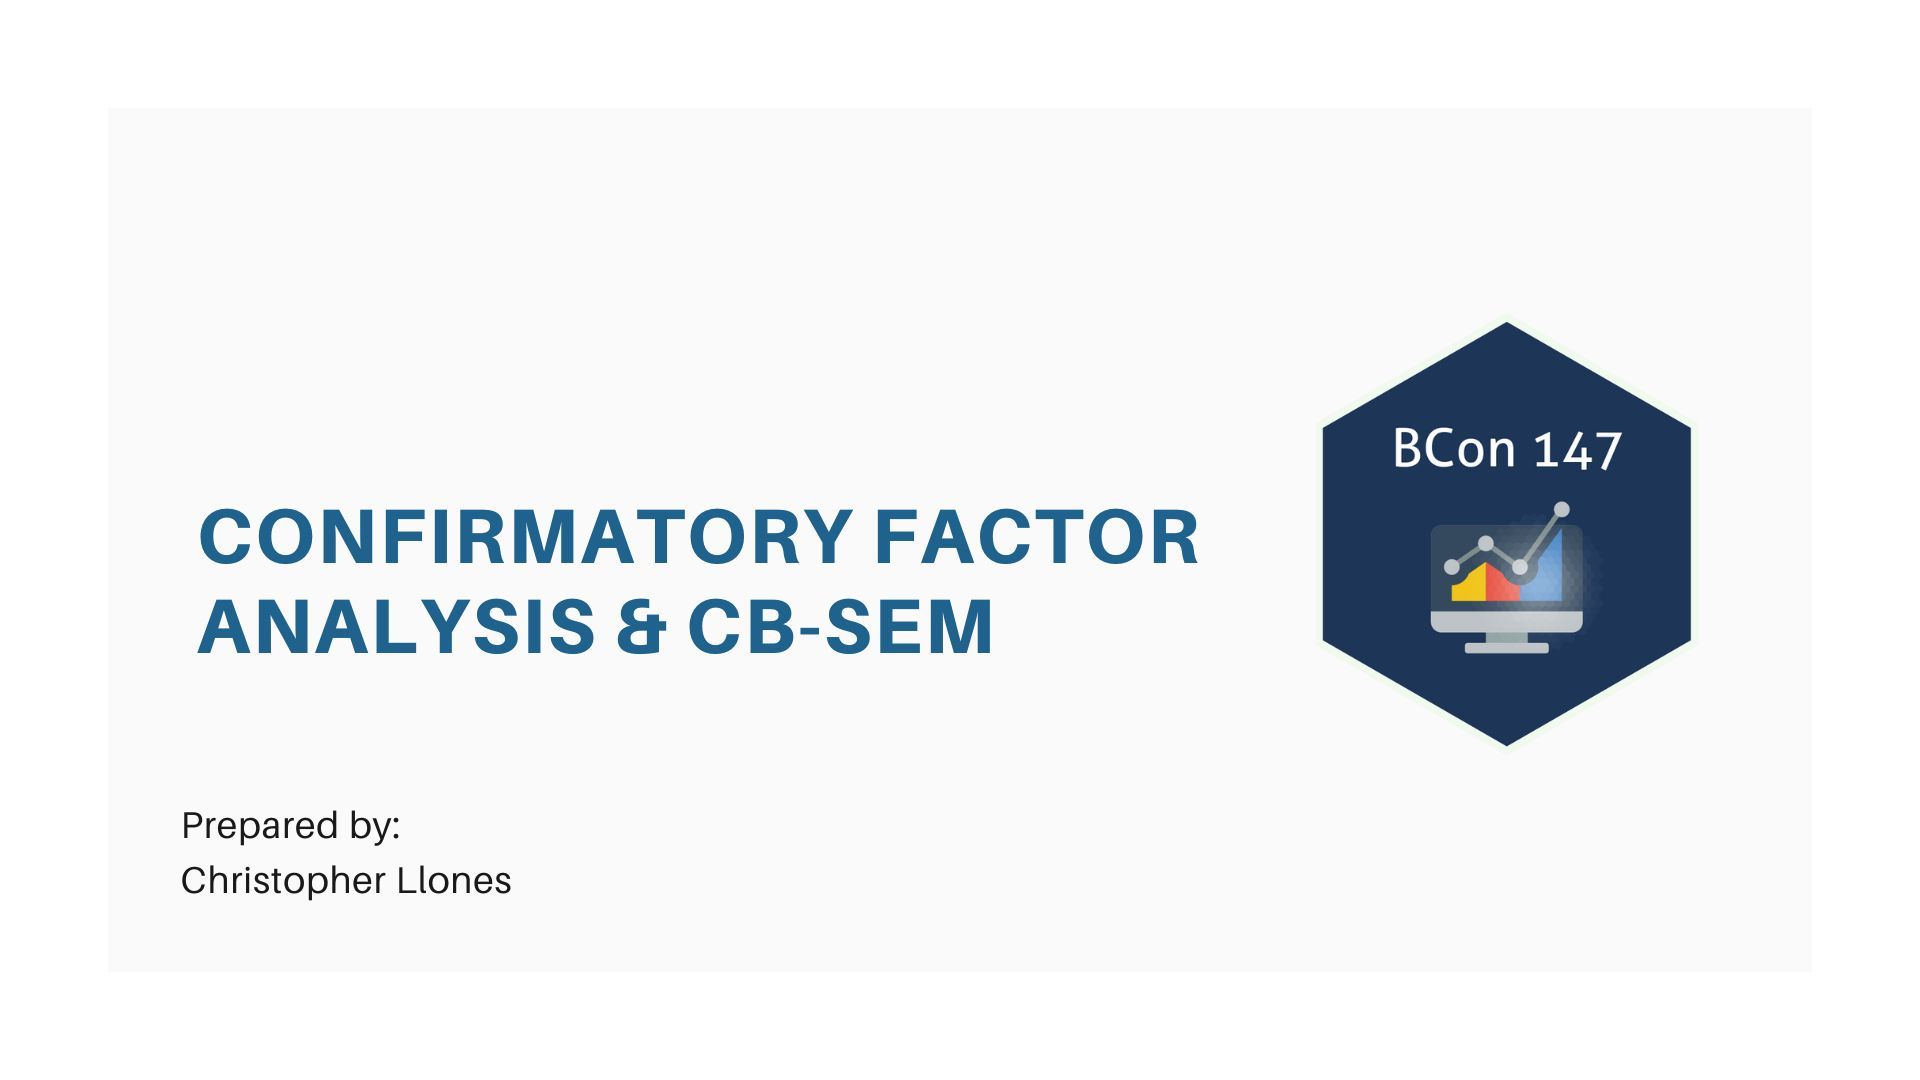
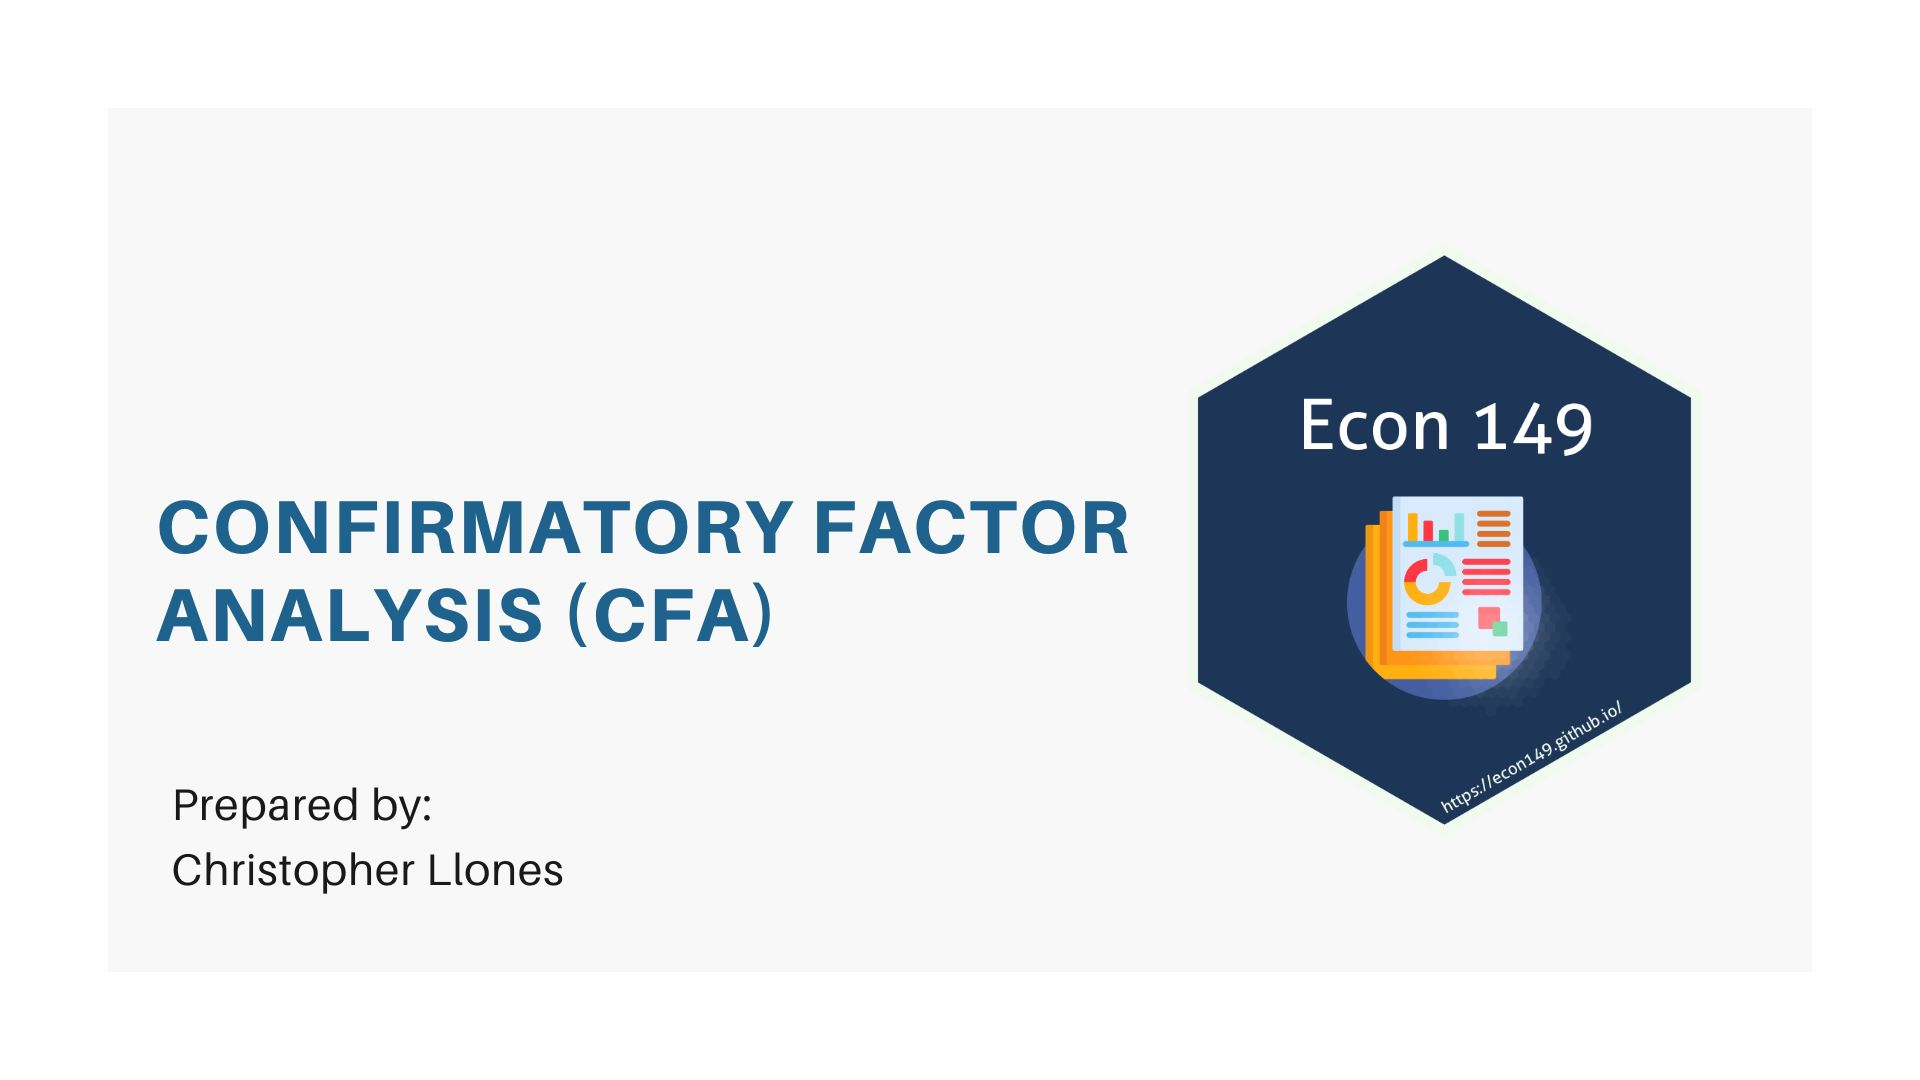
background change

Changed region(s): [[0.0625, 0.2444, 0.9062, 0.7639], [0.0938, 0.7333, 0.3125, 0.825]]

diff --git a/module-5-efa/index.html b/module-5-efa/index.html
@@ -540,8 +540,8 @@
 </div><div class="column" style="width:60%;">
 <div class="cell">
 <div class="cell-output-display">
-<div class="datatables html-widget html-fill-item" id="htmlwidget-3b3ef5f225dbb7758c3a" style="width:100%;height:auto;"></div>
-<script type="application/json" data-for="htmlwidget-3b3ef5f225dbb7758c3a">{"x":{"filter":"none","vertical":false,"data":[["1","2","3","4","5","6","7","8","9","10","11","12","13","14","15","16","17","18","19","20","21","22","23","24","25","26","27","28","29","30","31","32","33","34","35","36","37","38","39","40","41","42","43","44","45","46","47","48","49","50","51","52","53","54","55","56","57","58","59","60","61","62","63","64","65","66","67","68","69","70","71","72","73","74","75","76","77","78","79","80","81","82","83","84","85","86","87","88","89","90","91","92","93","94","95","96","97","98","99","100"],[8.5,8.199999999999999,9.199999999999999,6.4,9,6.5,6.9,6.2,5.8,6.4,8.699999999999999,6.1,9.5,9.199999999999999,6.3,8.699999999999999,5.7,5.9,5.6,9.1,5.2,9.6,8.6,9.300000000000001,6,6.4,8.5,7,8.5,7.6,6.9,8.1,6.7,8,6.7,8.699999999999999,9,9.6,8.199999999999999,6.1,8.300000000000001,9.4,9.300000000000001,5.1,8,5.9,10,5.7,9.9,7.9,6.7,8.199999999999999,9.4,6.9,8,9.300000000000001,7.4,7.6,10,9.9,8.699999999999999,8.4,8.800000000000001,7.7,6.6,5.7,5.7,5.5,7.5,6.4,9.1,6.7,6.5,9.9,8.5,9.9,7.6,9.4,9.300000000000001,7.1,9.9,8.699999999999999,8.6,6.4,7.7,7.5,5,7.7,9.1,5.5,9.1,7.1,9.199999999999999,9.300000000000001,9.300000000000001,8.6,7.4,8.699999999999999,7.8,7.9],[3.9,2.7,3.4,3.3,3.4,2.8,3.7,3.3,3.6,4.5,3.2,4.9,5.6,3.9,4.5,3.2,4,4.1,3.4,4.5,3.8,5.7,3.6,2.4,4.1,3.6,3,3.3,3,3.6,3.4,2.5,3.7,3.3,4,3.2,3.4,4.1,3.6,4.9,3.4,3.8,5.1,5.1,2.5,4.1,4.3,3.8,3.7,3.9,3.6,2.7,2.5,3.4,3.3,3.8,5.1,3.6,4.3,2.8,3.2,3.8,3.9,2.2,3.6,3.8,4,3.7,3.5,3.6,4.5,3.2,4.3,3.7,3.9,3,3.6,3.8,3.5,3.4,3,3.2,2.9,3.2,2.6,3.5,3.6,2.6,3.6,5.5,3.7,4.2,3.9,3.5,3.8,4.8,3.4,3.2,4.9,3],[2.5,5.1,5.6,7,5.2,3.1,5,3.9,5.1,5.1,4.6,6.3,4.6,5.7,4.7,4,6.7,5.5,5.1,3.6,7.1,6.8,7.4,2.6,5.3,6.6,7.2,5.4,5.7,3,8.5,7.2,6.5,6.1,5.2,6.1,5.9,6.2,3.9,3,3.3,4.7,4.6,6.6,4.7,5.7,7.1,6.8,3.7,4.3,5.9,3.7,4.8,5.7,3.8,7.3,4.8,5.2,5.3,7.2,8.4,6.7,3.8,6.3,5.8,3.5,7.9,4.7,3.8,2.7,6.1,3,2.7,7.5,5.3,6.8,7.6,7,6.3,4.9,7.4,6.4,5.8,6.7,6.7,4.1,1.3,8,5.5,7.7,7,4.1,4.6,5.4,4,5.6,2.6,3.3,5.8,4.4],[5.9,7.2,5.6,3.7,4.6,4.1,2.6,4.8,6.7,6.1,4.8,3.9,6.9,5.5,6.9,6.8,6,7.2,6.4,6.4,5.2,5.9,5.1,7.2,4.7,6.1,5.8,5.5,6,4,4.3,4.5,5.3,5.7,3.9,4.3,4.6,7.3,6.2,4.8,5.5,5.4,6.8,6.9,7.1,5.9,6.3,7.5,6.1,5.8,4.2,7.4,6.1,4.4,5.8,5.7,7.7,5.8,3.7,6.9,6.1,5,5.1,4.5,4.1,6.7,6.4,5.4,3.5,5.3,5.9,3.7,6.6,4.7,5.5,5,4.6,6.2,7.6,4.1,4.8,4.9,3.9,3.6,6.6,4.5,3,6.7,5.4,7,4.1,2.6,5.3,7.8,4.6,5.3,5,3.2,5.3,5.1],[4.8,3.4,5.4,4.7,2.2,4,2.1,4.6,3.7,4.7,2.7,4.4,5,2.4,4.5,3.2,3.3,3.5,3.7,5.3,3.9,5.4,3.5,2.2,3.5,4,4.1,2.6,2.3,5.1,4.5,2.3,5.3,5.5,3,3.5,3.9,2.9,5.8,5.1,3.1,3.8,5.8,4.4,3.6,5.8,2.9,5.7,4.2,4.4,3.4,2.7,3.2,3.3,3.2,3.7,4.5,5.6,4.2,2.6,2.8,4.5,4.3,2.4,4.9,5.4,2.7,4.3,2.9,3.9,6.3,4.8,6.5,5.6,5,5.4,4.7,4.7,5.5,4,4,2.4,2.9,2.2,1.9,3.5,3.5,3.5,4.2,5.6,4.4,2.1,4.2,4.6,4.7,2.3,4.1,3.1,5.2,5.9],[4.9,7.9,7.4,4.7,6,4.3,2.3,3.6,5.9,5.7,6.8,3.9,6.9,8.4,6.8,7.8,5.5,6.4,5.7,5.3,4.3,8.300000000000001,7.3,7.2,5.3,3.9,7.6,4.8,7.6,4.2,6.4,5.1,5.1,4.6,5.4,6.1,6,7.7,4.9,3.9,4.6,6.5,6.6,5.4,7.7,6.4,5.4,5.7,7,6.9,4.7,7.9,7.3,6.4,4.6,6.4,7.2,6.6,5.4,5.8,7.8,4.7,4.7,4.7,4.7,5.7,5.5,5.3,4.1,3.9,5.3,6.3,6.3,7,4.9,5.9,4.6,6.5,7.5,5,5.9,6.8,5.6,2.9,7.2,4.1,4.2,7.2,6.2,5.7,6.3,3.3,8.4,7.5,6.4,6,4.4,6.1,5.3,4.2],[6,3.1,5.8,4.5,4.5,3.7,5.4,5.1,5.8,5.7,4.6,6.4,6.6,4.8,5.9,3.8,5.1,5.5,5.6,7.1,5,7.8,4.7,4.5,5.3,5.3,3.7,4.2,3.7,4.6,4.7,3.8,4.9,4.7,6.8,2.9,4.5,5.5,5,6.4,5.2,4.9,6.3,7.8,3,5.5,4.5,6,6.7,5.8,4.8,3.1,4.6,4.7,4.7,5.5,6.9,5.4,4.5,3.5,3.8,5.9,4.8,3.4,4.8,6,5.1,4.9,4.5,5.3,7.1,4.5,6,6.7,6,4.8,5,4.9,5.9,5.9,4.8,4.6,4,5,4.3,4.5,4.9,4.3,4.6,8.199999999999999,5.4,4.5,4.8,5.9,5.5,5.7,4.8,2.9,7.1,4.8],[6.8,5.3,4.5,8.800000000000001,6.8,8.5,8.9,6.9,9.300000000000001,8.4,6.8,8.199999999999999,7.6,7.1,8.800000000000001,4.9,6.2,8.4,9.1,8.4,8.4,4.5,3.7,6.2,8,7.1,4.8,9,4.8,7.7,5.2,6.6,9.199999999999999,8.699999999999999,8.4,5.6,6.8,7.7,9,8.199999999999999,9.1,8.5,7.4,5.9,5.2,8.4,3.8,8.199999999999999,6.8,4.7,7.2,5.3,6.3,5.2,8.699999999999999,7.4,9.6,4.4,3.8,5.4,4.9,6.7,5.8,6.2,7.2,8.199999999999999,6.2,6,7.6,7.1,8.4,5,8.699999999999999,6.8,6.8,4.9,7.4,8.5,4.6,7.8,4.9,6.8,6.3,8.4,5.9,7.6,8.199999999999999,5.9,8.300000000000001,6.3,7.3,9.9,7.1,4.6,7.4,6.7,7.2,5.6,7.9,9.699999999999999],[4.7,5.5,6.2,7,6.1,5.1,4.8,5.4,5.9,5.4,5.8,5.8,6.5,6.7,6,6.1,6.7,6.2,5.4,5.8,7.1,6.4,6.7,6.4,6.5,6.1,6.9,6.5,5.8,4.9,7.7,6.8,5.7,5.9,6.2,6.1,6.4,6.1,5.2,5.1,4.1,4.9,5.1,7.2,5.1,6.4,6.7,6.6,5.9,5.2,5.7,5.3,6.3,6.4,5.3,6.6,6.4,6.7,6.7,6.2,7.2,5.1,5,6,6.5,5.4,7.5,5.6,5.1,5.2,7.1,5.2,4.7,7.2,5.7,7.3,8.1,7.3,6.6,6.1,5.9,6.3,6.1,7.3,6.5,4.9,4.3,6.9,6.5,7.4,7.5,5.5,6.2,6.4,5.3,5.8,4.5,5,6,5.7],[5,3.9,5.4,4.3,4.5,3.6,2.1,4.3,4.4,4.1,3.8,3,5.1,4.5,4.8,4.3,4.2,5.7,5,4.5,3.3,4.3,4.8,6.7,4.7,5.6,5.3,4.3,5.7,4.7,3.7,3,3.5,4.7,2.5,3.1,3.9,5.2,4.7,4.5,4.6,4.1,4.6,4.9,4.3,5.2,5,6.5,4.5,4.1,4,4.5,4.7,3.2,4.9,4.1,5.7,4.6,3.7,5.6,5.4,2.7,4.4,3.3,3.5,4.7,5,4.5,4,4.7,5.4,2.9,4.6,4.1,4.4,3.1,4.5,4.3,5.2,2.6,3.2,4.3,2.7,2,4.7,3.4,2.4,5.1,4.6,5.5,4.4,2,4.4,4.8,3.6,4.9,4.2,3.1,4.3,3.4],[3.7,4.9,4.5,3,3.5,3.3,2,3.7,4.6,4.4,4,3.2,4.4,4.2,5.2,4.5,4.5,4.8,4.5,4.4,3.3,4.3,4,4.5,4,3.9,4.4,3.7,4.4,3.5,3.3,3,3.4,4.2,3.5,2.5,3.5,4.9,4.5,3.2,3.9,4.1,4.3,4.5,4.7,4.8,3.5,5.2,3.9,4.3,2.8,4.9,4.6,3.3,4.2,3.4,5.5,4,3.5,4,4.5,3.6,2.9,2.6,2.8,5.2,4.5,4.3,3.4,3.9,4.4,3.1,4.6,3.9,3.7,3.8,3.9,4.1,4.6,2.7,3.8,4,3,1.6,4.3,3.4,3.1,4.3,3.9,4.9,3.3,2.4,4.2,4.6,3.4,3.6,3.7,2.5,3.9,3.5]],"container":"<table class=\"display\">\n  <thead>\n    <tr>\n      <th> <\/th>\n      <th>x6<\/th>\n      <th>x7<\/th>\n      <th>x8<\/th>\n      <th>x9<\/th>\n      <th>x10<\/th>\n      <th>x11<\/th>\n      <th>x12<\/th>\n      <th>x13<\/th>\n      <th>x14<\/th>\n      <th>x16<\/th>\n      <th>x18<\/th>\n    <\/tr>\n  <\/thead>\n<\/table>","options":{"pageLength":5,"columnDefs":[{"className":"dt-right","targets":[1,2,3,4,5,6,7,8,9,10,11]},{"orderable":false,"targets":0},{"name":" ","targets":0},{"name":"x6","targets":1},{"name":"x7","targets":2},{"name":"x8","targets":3},{"name":"x9","targets":4},{"name":"x10","targets":5},{"name":"x11","targets":6},{"name":"x12","targets":7},{"name":"x13","targets":8},{"name":"x14","targets":9},{"name":"x16","targets":10},{"name":"x18","targets":11}],"order":[],"autoWidth":false,"orderClasses":false,"lengthMenu":[5,10,25,50,100]}},"evals":[],"jsHooks":[]}</script>
+<div class="datatables html-widget html-fill-item" id="htmlwidget-fa7deb1de8ad1a0f2bef" style="width:100%;height:auto;"></div>
+<script type="application/json" data-for="htmlwidget-fa7deb1de8ad1a0f2bef">{"x":{"filter":"none","vertical":false,"data":[["1","2","3","4","5","6","7","8","9","10","11","12","13","14","15","16","17","18","19","20","21","22","23","24","25","26","27","28","29","30","31","32","33","34","35","36","37","38","39","40","41","42","43","44","45","46","47","48","49","50","51","52","53","54","55","56","57","58","59","60","61","62","63","64","65","66","67","68","69","70","71","72","73","74","75","76","77","78","79","80","81","82","83","84","85","86","87","88","89","90","91","92","93","94","95","96","97","98","99","100"],[8.5,8.199999999999999,9.199999999999999,6.4,9,6.5,6.9,6.2,5.8,6.4,8.699999999999999,6.1,9.5,9.199999999999999,6.3,8.699999999999999,5.7,5.9,5.6,9.1,5.2,9.6,8.6,9.300000000000001,6,6.4,8.5,7,8.5,7.6,6.9,8.1,6.7,8,6.7,8.699999999999999,9,9.6,8.199999999999999,6.1,8.300000000000001,9.4,9.300000000000001,5.1,8,5.9,10,5.7,9.9,7.9,6.7,8.199999999999999,9.4,6.9,8,9.300000000000001,7.4,7.6,10,9.9,8.699999999999999,8.4,8.800000000000001,7.7,6.6,5.7,5.7,5.5,7.5,6.4,9.1,6.7,6.5,9.9,8.5,9.9,7.6,9.4,9.300000000000001,7.1,9.9,8.699999999999999,8.6,6.4,7.7,7.5,5,7.7,9.1,5.5,9.1,7.1,9.199999999999999,9.300000000000001,9.300000000000001,8.6,7.4,8.699999999999999,7.8,7.9],[3.9,2.7,3.4,3.3,3.4,2.8,3.7,3.3,3.6,4.5,3.2,4.9,5.6,3.9,4.5,3.2,4,4.1,3.4,4.5,3.8,5.7,3.6,2.4,4.1,3.6,3,3.3,3,3.6,3.4,2.5,3.7,3.3,4,3.2,3.4,4.1,3.6,4.9,3.4,3.8,5.1,5.1,2.5,4.1,4.3,3.8,3.7,3.9,3.6,2.7,2.5,3.4,3.3,3.8,5.1,3.6,4.3,2.8,3.2,3.8,3.9,2.2,3.6,3.8,4,3.7,3.5,3.6,4.5,3.2,4.3,3.7,3.9,3,3.6,3.8,3.5,3.4,3,3.2,2.9,3.2,2.6,3.5,3.6,2.6,3.6,5.5,3.7,4.2,3.9,3.5,3.8,4.8,3.4,3.2,4.9,3],[2.5,5.1,5.6,7,5.2,3.1,5,3.9,5.1,5.1,4.6,6.3,4.6,5.7,4.7,4,6.7,5.5,5.1,3.6,7.1,6.8,7.4,2.6,5.3,6.6,7.2,5.4,5.7,3,8.5,7.2,6.5,6.1,5.2,6.1,5.9,6.2,3.9,3,3.3,4.7,4.6,6.6,4.7,5.7,7.1,6.8,3.7,4.3,5.9,3.7,4.8,5.7,3.8,7.3,4.8,5.2,5.3,7.2,8.4,6.7,3.8,6.3,5.8,3.5,7.9,4.7,3.8,2.7,6.1,3,2.7,7.5,5.3,6.8,7.6,7,6.3,4.9,7.4,6.4,5.8,6.7,6.7,4.1,1.3,8,5.5,7.7,7,4.1,4.6,5.4,4,5.6,2.6,3.3,5.8,4.4],[5.9,7.2,5.6,3.7,4.6,4.1,2.6,4.8,6.7,6.1,4.8,3.9,6.9,5.5,6.9,6.8,6,7.2,6.4,6.4,5.2,5.9,5.1,7.2,4.7,6.1,5.8,5.5,6,4,4.3,4.5,5.3,5.7,3.9,4.3,4.6,7.3,6.2,4.8,5.5,5.4,6.8,6.9,7.1,5.9,6.3,7.5,6.1,5.8,4.2,7.4,6.1,4.4,5.8,5.7,7.7,5.8,3.7,6.9,6.1,5,5.1,4.5,4.1,6.7,6.4,5.4,3.5,5.3,5.9,3.7,6.6,4.7,5.5,5,4.6,6.2,7.6,4.1,4.8,4.9,3.9,3.6,6.6,4.5,3,6.7,5.4,7,4.1,2.6,5.3,7.8,4.6,5.3,5,3.2,5.3,5.1],[4.8,3.4,5.4,4.7,2.2,4,2.1,4.6,3.7,4.7,2.7,4.4,5,2.4,4.5,3.2,3.3,3.5,3.7,5.3,3.9,5.4,3.5,2.2,3.5,4,4.1,2.6,2.3,5.1,4.5,2.3,5.3,5.5,3,3.5,3.9,2.9,5.8,5.1,3.1,3.8,5.8,4.4,3.6,5.8,2.9,5.7,4.2,4.4,3.4,2.7,3.2,3.3,3.2,3.7,4.5,5.6,4.2,2.6,2.8,4.5,4.3,2.4,4.9,5.4,2.7,4.3,2.9,3.9,6.3,4.8,6.5,5.6,5,5.4,4.7,4.7,5.5,4,4,2.4,2.9,2.2,1.9,3.5,3.5,3.5,4.2,5.6,4.4,2.1,4.2,4.6,4.7,2.3,4.1,3.1,5.2,5.9],[4.9,7.9,7.4,4.7,6,4.3,2.3,3.6,5.9,5.7,6.8,3.9,6.9,8.4,6.8,7.8,5.5,6.4,5.7,5.3,4.3,8.300000000000001,7.3,7.2,5.3,3.9,7.6,4.8,7.6,4.2,6.4,5.1,5.1,4.6,5.4,6.1,6,7.7,4.9,3.9,4.6,6.5,6.6,5.4,7.7,6.4,5.4,5.7,7,6.9,4.7,7.9,7.3,6.4,4.6,6.4,7.2,6.6,5.4,5.8,7.8,4.7,4.7,4.7,4.7,5.7,5.5,5.3,4.1,3.9,5.3,6.3,6.3,7,4.9,5.9,4.6,6.5,7.5,5,5.9,6.8,5.6,2.9,7.2,4.1,4.2,7.2,6.2,5.7,6.3,3.3,8.4,7.5,6.4,6,4.4,6.1,5.3,4.2],[6,3.1,5.8,4.5,4.5,3.7,5.4,5.1,5.8,5.7,4.6,6.4,6.6,4.8,5.9,3.8,5.1,5.5,5.6,7.1,5,7.8,4.7,4.5,5.3,5.3,3.7,4.2,3.7,4.6,4.7,3.8,4.9,4.7,6.8,2.9,4.5,5.5,5,6.4,5.2,4.9,6.3,7.8,3,5.5,4.5,6,6.7,5.8,4.8,3.1,4.6,4.7,4.7,5.5,6.9,5.4,4.5,3.5,3.8,5.9,4.8,3.4,4.8,6,5.1,4.9,4.5,5.3,7.1,4.5,6,6.7,6,4.8,5,4.9,5.9,5.9,4.8,4.6,4,5,4.3,4.5,4.9,4.3,4.6,8.199999999999999,5.4,4.5,4.8,5.9,5.5,5.7,4.8,2.9,7.1,4.8],[6.8,5.3,4.5,8.800000000000001,6.8,8.5,8.9,6.9,9.300000000000001,8.4,6.8,8.199999999999999,7.6,7.1,8.800000000000001,4.9,6.2,8.4,9.1,8.4,8.4,4.5,3.7,6.2,8,7.1,4.8,9,4.8,7.7,5.2,6.6,9.199999999999999,8.699999999999999,8.4,5.6,6.8,7.7,9,8.199999999999999,9.1,8.5,7.4,5.9,5.2,8.4,3.8,8.199999999999999,6.8,4.7,7.2,5.3,6.3,5.2,8.699999999999999,7.4,9.6,4.4,3.8,5.4,4.9,6.7,5.8,6.2,7.2,8.199999999999999,6.2,6,7.6,7.1,8.4,5,8.699999999999999,6.8,6.8,4.9,7.4,8.5,4.6,7.8,4.9,6.8,6.3,8.4,5.9,7.6,8.199999999999999,5.9,8.300000000000001,6.3,7.3,9.9,7.1,4.6,7.4,6.7,7.2,5.6,7.9,9.699999999999999],[4.7,5.5,6.2,7,6.1,5.1,4.8,5.4,5.9,5.4,5.8,5.8,6.5,6.7,6,6.1,6.7,6.2,5.4,5.8,7.1,6.4,6.7,6.4,6.5,6.1,6.9,6.5,5.8,4.9,7.7,6.8,5.7,5.9,6.2,6.1,6.4,6.1,5.2,5.1,4.1,4.9,5.1,7.2,5.1,6.4,6.7,6.6,5.9,5.2,5.7,5.3,6.3,6.4,5.3,6.6,6.4,6.7,6.7,6.2,7.2,5.1,5,6,6.5,5.4,7.5,5.6,5.1,5.2,7.1,5.2,4.7,7.2,5.7,7.3,8.1,7.3,6.6,6.1,5.9,6.3,6.1,7.3,6.5,4.9,4.3,6.9,6.5,7.4,7.5,5.5,6.2,6.4,5.3,5.8,4.5,5,6,5.7],[5,3.9,5.4,4.3,4.5,3.6,2.1,4.3,4.4,4.1,3.8,3,5.1,4.5,4.8,4.3,4.2,5.7,5,4.5,3.3,4.3,4.8,6.7,4.7,5.6,5.3,4.3,5.7,4.7,3.7,3,3.5,4.7,2.5,3.1,3.9,5.2,4.7,4.5,4.6,4.1,4.6,4.9,4.3,5.2,5,6.5,4.5,4.1,4,4.5,4.7,3.2,4.9,4.1,5.7,4.6,3.7,5.6,5.4,2.7,4.4,3.3,3.5,4.7,5,4.5,4,4.7,5.4,2.9,4.6,4.1,4.4,3.1,4.5,4.3,5.2,2.6,3.2,4.3,2.7,2,4.7,3.4,2.4,5.1,4.6,5.5,4.4,2,4.4,4.8,3.6,4.9,4.2,3.1,4.3,3.4],[3.7,4.9,4.5,3,3.5,3.3,2,3.7,4.6,4.4,4,3.2,4.4,4.2,5.2,4.5,4.5,4.8,4.5,4.4,3.3,4.3,4,4.5,4,3.9,4.4,3.7,4.4,3.5,3.3,3,3.4,4.2,3.5,2.5,3.5,4.9,4.5,3.2,3.9,4.1,4.3,4.5,4.7,4.8,3.5,5.2,3.9,4.3,2.8,4.9,4.6,3.3,4.2,3.4,5.5,4,3.5,4,4.5,3.6,2.9,2.6,2.8,5.2,4.5,4.3,3.4,3.9,4.4,3.1,4.6,3.9,3.7,3.8,3.9,4.1,4.6,2.7,3.8,4,3,1.6,4.3,3.4,3.1,4.3,3.9,4.9,3.3,2.4,4.2,4.6,3.4,3.6,3.7,2.5,3.9,3.5]],"container":"<table class=\"display\">\n  <thead>\n    <tr>\n      <th> <\/th>\n      <th>x6<\/th>\n      <th>x7<\/th>\n      <th>x8<\/th>\n      <th>x9<\/th>\n      <th>x10<\/th>\n      <th>x11<\/th>\n      <th>x12<\/th>\n      <th>x13<\/th>\n      <th>x14<\/th>\n      <th>x16<\/th>\n      <th>x18<\/th>\n    <\/tr>\n  <\/thead>\n<\/table>","options":{"pageLength":5,"columnDefs":[{"className":"dt-right","targets":[1,2,3,4,5,6,7,8,9,10,11]},{"orderable":false,"targets":0},{"name":" ","targets":0},{"name":"x6","targets":1},{"name":"x7","targets":2},{"name":"x8","targets":3},{"name":"x9","targets":4},{"name":"x10","targets":5},{"name":"x11","targets":6},{"name":"x12","targets":7},{"name":"x13","targets":8},{"name":"x14","targets":9},{"name":"x16","targets":10},{"name":"x18","targets":11}],"order":[],"autoWidth":false,"orderClasses":false,"lengthMenu":[5,10,25,50,100]}},"evals":[],"jsHooks":[]}</script>
 </div>
 </div>
 </div></div>

diff --git a/module-6-cfa-cb-sem/index.html b/module-6-cfa-cb-sem/index.html
@@ -1756,12 +1756,12 @@
 <h2></h2>
 <div class="quarto-figure quarto-figure-center">
 <figure>
-<p><img data-src="img/Bcon147-hex-logo.png" class="quarto-figure quarto-figure-center" style="width:40.0%;height:40.0%"></p>
+<p><img data-src="img/econ149-hex-logo.png" class="quarto-figure quarto-figure-center" style="width:40.0%;height:40.0%"></p>
 </figure>
 </div>
 <div class="quarto-auto-generated-content">
 <div class="footer footer-default">
-<p>Econ 147: special topics in business economics</p>
+<p>Econ 149: Analytical and statitistical package for economics</p>
 </div>
 </div>
 </section></section>
